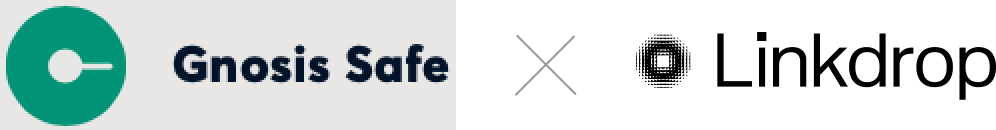
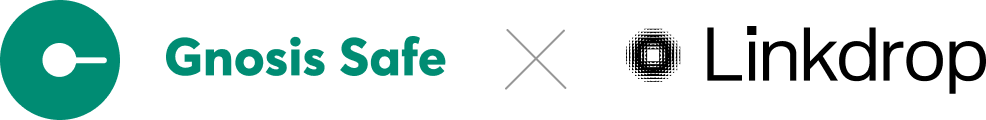
added fix for mobile

diff --git a/packages/apps/gnosis-dapp/public/index.html b/packages/apps/gnosis-dapp/public/index.html
@@ -2,7 +2,7 @@
 <html lang="en">
   <head>
     <meta charset="utf-8" />
-    <link rel="shortcut icon" href="%PUBLIC_URL%/favicon.ico" />
+    <link rel="shortcut icon" href="%PUBLIC_URL%/favicon.png" />
     <meta name="viewport" content="width=device-width, initial-scale=1" />
     <meta name="theme-color" content="#000000" />
     <!--
@@ -19,7 +19,7 @@
       work correctly both with client-side routing and a non-root public URL.
       Learn how to configure a non-root public URL by running `npm run build`.
     -->
-    <title>Test Dapp</title>
+    <title>Linkdrop Module Demo</title>
 
     <script src="https://instant.0x.org/instant.js" ></script>
     

diff --git a/packages/apps/gnosis-dapp/src/app.module.scss b/packages/apps/gnosis-dapp/src/app.module.scss
@@ -77,7 +77,7 @@
 
 .gnosisLogo {
   position: fixed;
-  max-width: 120px;
+  max-width: 60px;
   left: 10px;
   bottom: 14px;
 
